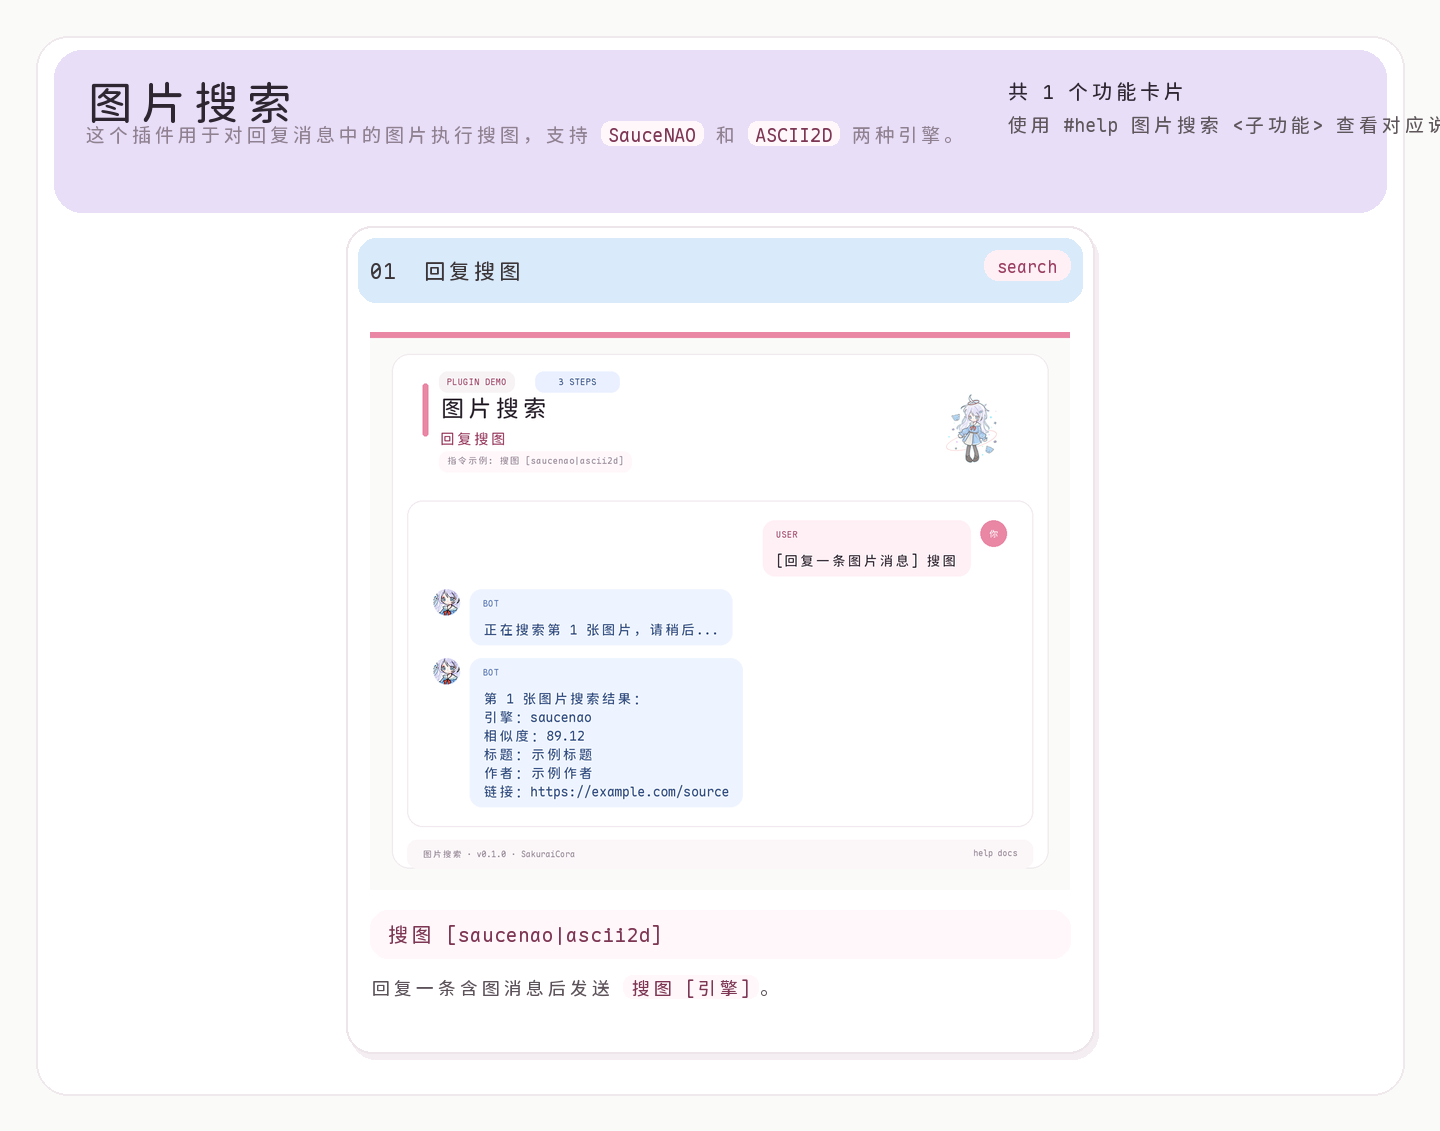
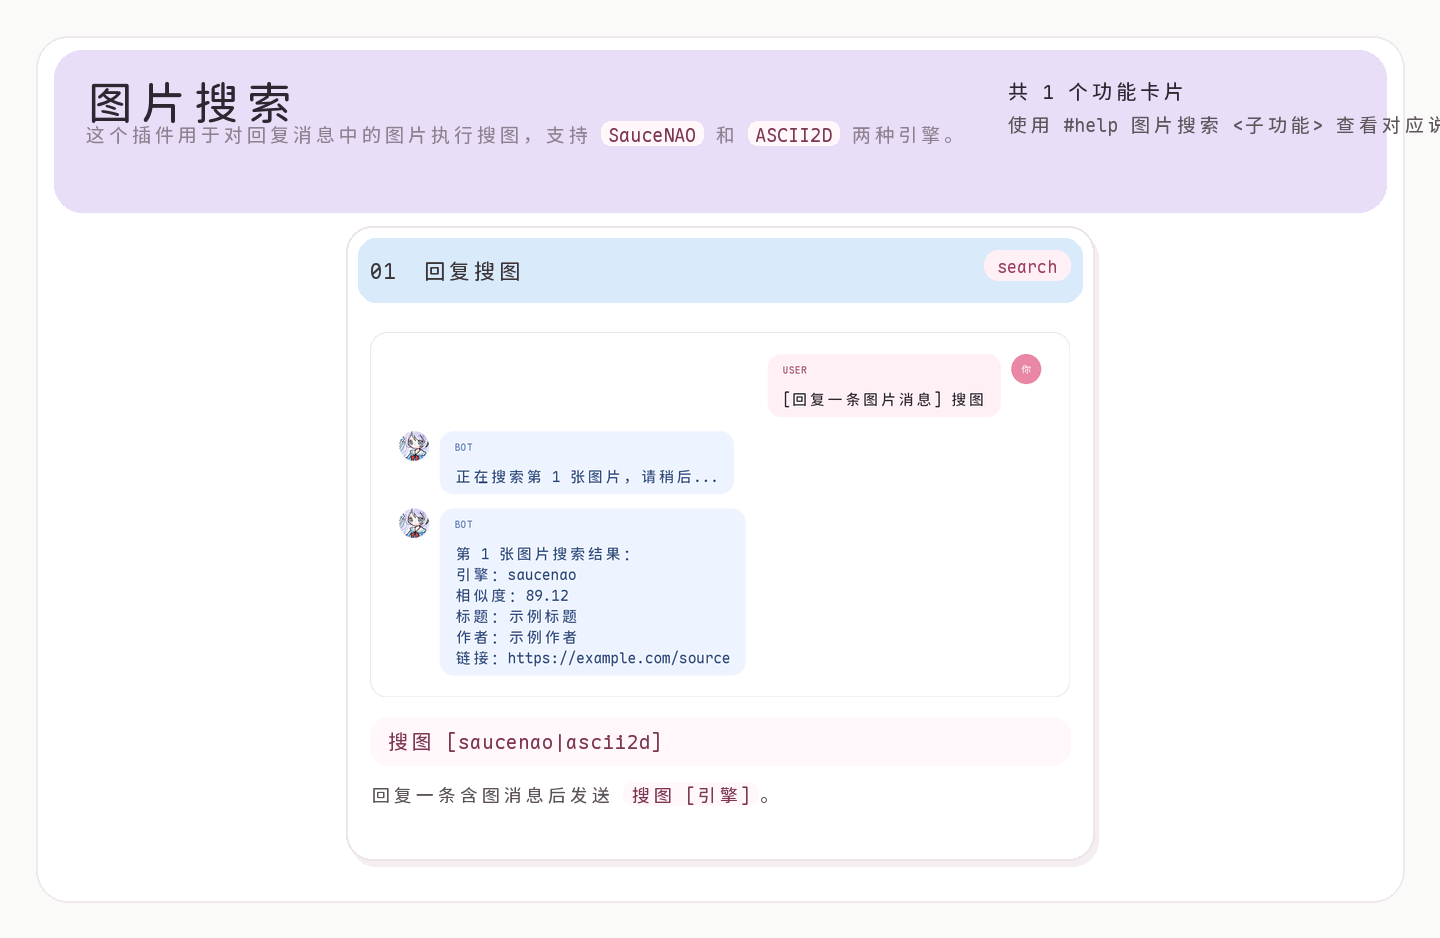
🎨 style(plugin-docs): crop collection previews to conversation panels

diff --git a/scripts/build_docs.py b/scripts/build_docs.py
@@ -21,6 +21,7 @@ if str(ROOT) not in sys.path:
 from src.database.core.consts import Permission
 from src.lib.consts import MAPLE_FONT_PATH, TriggerType
 from src.lib.plugin_docs import (
+    DemoImageRenderer,
     PluginDocBundle,
     audit_demo_layout,
     collection_demo_filename,
@@ -391,8 +392,24 @@ class DemoCollectionRenderer:
     def _load_thumbnail(self, path: Path) -> Image.Image:
         with Image.open(path) as source:
             image = source.convert("RGB")
+        image = self._crop_demo_conversation(image)
         height = max(1, round(image.height * self.thumb_width / image.width))
         return image.resize((self.thumb_width, height), Image.Resampling.LANCZOS)
+
+    def _crop_demo_conversation(self, image: Image.Image) -> Image.Image:
+        renderer = DemoImageRenderer()
+        panel_top = (
+            renderer.OUTER_MARGIN + renderer.HEADER_HEIGHT + renderer.BODY_TOP_GAP
+        )
+        footer_cut = (
+            renderer.FOOTER_TOP_GAP + renderer.FOOTER_HEIGHT + renderer.OUTER_MARGIN
+        )
+        left = renderer.OUTER_MARGIN + 28
+        top = panel_top
+        right = renderer.WIDTH - renderer.OUTER_MARGIN - 28
+        bottom = max(top + 1, image.height - footer_cut)
+        cropped = image.crop((left, top, right, bottom))
+        return cropped if cropped.width > 0 and cropped.height > 0 else image
 
     def _card_height(self, tile: PreparedCollectionTile) -> int:
         content_width = self.card_width - self.CARD_PADDING * 2

diff --git a/tests/test_plugin_docs.py b/tests/test_plugin_docs.py
@@ -902,6 +902,19 @@ BOT: Alpha 完成
     assert prepared.image.width == 240
 
 
+def test_collection_thumbnail_crops_to_conversation_panel() -> None:
+    source = Path("src/plugins/study/docs/demos/study-shortcut.png")
+    renderer = plugin_docs_script.DemoCollectionRenderer(columns=2, thumb_width=240)
+
+    with Image.open(source) as original:
+        original_size = original.size
+    thumb = renderer._load_thumbnail(source)  # pyright: ignore[reportPrivateUsage]
+
+    full_scaled_height = round(original_size[1] * 240 / original_size[0])
+    assert thumb.width == 240
+    assert thumb.height < full_scaled_height
+
+
 def test_plugin_docs_build_runs_generate_compose_and_validate_in_order(
     monkeypatch: Any,
 ) -> None:
